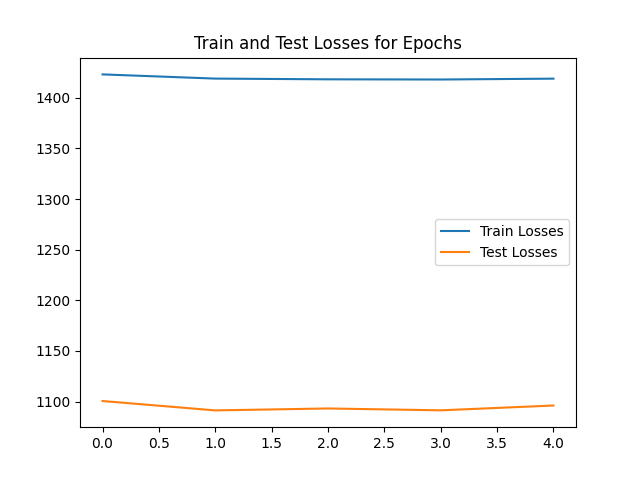
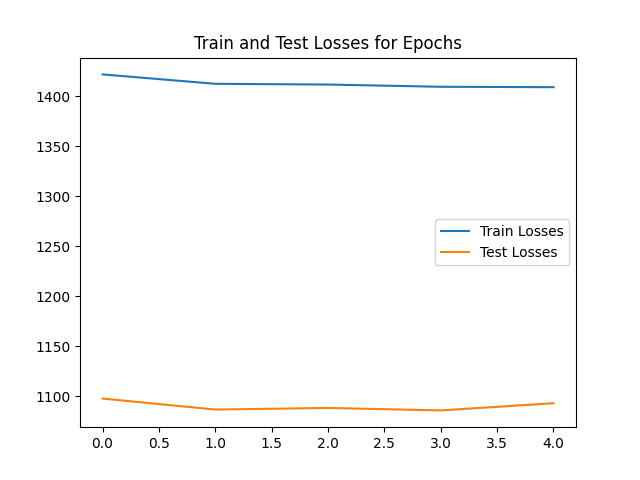
gpu training

diff --git a/model_pipeline/train.py b/model_pipeline/train.py
@@ -22,6 +22,7 @@ class Train:
 
     return final model state 
     '''
+    
 
 
     input_size= self.args.input_size # 55 
@@ -40,9 +41,9 @@ class Train:
     epochs_completed = 0 
 
     # load in model if needed 
-    if self.args.load_model_knn: 
+    if self.args.load_model_fnn: 
       # get model state 
-      model_state= torch.load(self.args.load_model_knn)
+      model_state= torch.load(self.args.load_model_fnn)
 
       # load in state_dict for model and optimizr
       model.load_state_dict(model_state['model_state_dict'])
@@ -52,7 +53,7 @@ class Train:
       epochs_completed= model_state['epochs_completed']
       train_loss_data= model_state['train_loss_data']
       test_loss_data= model_state['test_loss_data']
-      print('KNN Model Loaded in From ', self.args.load_model_knn)
+      print('FNN Model Loaded in From ', self.args.load_model_fnn)
 
 
     for epoch in range(self.args.epochs): 
@@ -73,7 +74,8 @@ class Train:
 
       model.eval()
       loss_epoch_test= 0
-      for xbatch, ybatch in test_loader: 
+      for xbatch, ybatch in test_loader:
+
         # do prediction 
         pred = model(xbatch)
         loss= loss_metric(pred, ybatch)
@@ -81,7 +83,7 @@ class Train:
 
       train_loss_data.append(loss_epoch)
       test_loss_data.append(loss_epoch_test)
-      print(epoch +epochs_completed , loss_epoch, loss_epoch_test )
+      print('Epochs:', epoch +epochs_completed , 'Train Loss:',  loss_epoch, 'Test Loss:', loss_epoch_test )
 
        
 
@@ -104,9 +106,9 @@ class Train:
         'test_loss_data': test_loss_data
       }
 
-    if self.args.save_model_knn: 
-      torch.save(model_state, self.args.save_model_knn)
-      print('Model state saved to', self.args.save_model_knn)
+    if self.args.save_model_fnn: 
+      torch.save(model_state, self.args.save_model_fnn)
+      print('Model state saved to', self.args.save_model_fnn)
       
     
     return model_state

diff --git a/model_pipeline/modelhelper.py b/model_pipeline/modelhelper.py
@@ -99,8 +99,9 @@ class ModelHelper:
     y= torch.tensor(y.values, dtype= torch.float32)
 
     self.args.device= torch.device('cuda' if torch.cuda.is_available() else 'cpu')
-    x.to(self.args.device) # dataset is relatively small so can place it entirely on gpu now 
-    y.to(self.args.device)
+    print('Device Used:', self.args.device)
+    x= x.to(self.args.device) # dataset is relatively small so can place it entirely on gpu now 
+    y= y.to(self.args.device) # reassign to ensure cuda is used, and we aren't just creating a copy on cupu 
 
     # split into train test chunks 
     xtrain, xtest, ytrain, ytest= train_test_split(x, y, test_size=.15, shuffle=True, random_state=1 )
@@ -150,7 +151,7 @@ class ModelHelper:
 
     # use the data to pass to the FNN now 
     # begin training loop 
-    print('Beginning KNN Portion')
+    print('Beginning FNN Portion')
     self.train_instance= Train(self.args)
     model_state= self.train_instance.training_loop(train_loader, test_loader)
 
@@ -162,7 +163,8 @@ class ModelHelper:
 
 
     print('KNN Training Done')
-    raise Exception('here')
+    
+    return # None 
 
 
 

diff --git a/model_pipeline/args_commands.py b/model_pipeline/args_commands.py
@@ -1,19 +1,39 @@
 commands= [
+  # '--epochs=5', 
+  # '--lr=.001',
+
+  
+  # # '--save_model_kmeans',
+  # '--load_model_kmeans' , 
+  # '--save_model_knn', 
+  # # '--load_model_knn', 
+
+  # # '--model_training_loss_plot=images/knn2.png', 
+
+  # # if loading in model, ensure that the hidden sizes and other hyperparams are the saem 
+  # '--hidden_sizes=64', 
+  # '--hidden_sizes=128', 
+  # '--hidden_sizes=64', 
+
+
+
   '--epochs=5', 
-  '--lr=.01',
+  '--lr=.001',
+  '--batch_size=50',
 
   
   # '--save_model_kmeans',
   '--load_model_kmeans' , 
-  '--save_model_knn', 
+  '--save_model_fnn=saved_models/fnn2.pt', 
   # '--load_model_knn', 
 
-  # '--model_training_loss_plot=images/knn2.png', 
+  '--model_training_loss_plot=images/fnn2.png', 
 
   # if loading in model, ensure that the hidden sizes and other hyperparams are the saem 
   '--hidden_sizes=64', 
-  '--hidden_sizes=128', 
-  '--hidden_sizes=64', 
+  '--hidden_sizes=32', 
+
+
 
 
 ]

diff --git a/model_pipeline/driver.py b/model_pipeline/driver.py
@@ -41,9 +41,9 @@ parser.add_argument('--lr', default= .001, type= float, required=False)
   # load model if filename is given 
 parser.add_argument('--save_model_kmeans', const= 'saved_models/kmeans.pkl', nargs= '?', type = str )
 parser.add_argument('--load_model_kmeans', const= 'saved_models/kmeans.pkl', nargs= '?', type = str)
-parser.add_argument('--save_model_knn', const = 'saved_models/knn.pt', nargs='?')
-parser.add_argument('--load_model_knn', const = 'saved_models/knn.pt', nargs='?')
-parser.add_argument('--model_training_loss_plot', default= 'images/knn_training_loss.png', type= str )
+parser.add_argument('--save_model_fnn', const = 'saved_models/fnn.pt', nargs='?')
+parser.add_argument('--load_model_fnn', const = 'saved_models/fnn.pt', nargs='?')
+parser.add_argument('--model_training_loss_plot', default= 'images/fnn_training_loss.png', type= str )
 
 # for predicting 
 parser.add_argument('--predicting', default = False , type = str)

diff --git a/model_pipeline/model.py b/model_pipeline/model.py
@@ -51,8 +51,12 @@ class FNN(nn.Module):
       self.layers= nn.Sequential()
 
       self.layers.append(nn.Linear(input_size, hiddens[0]))
+      self.layers.append(nn.BatchNorm1d(hiddens[0])) # because of 0,1 scaling 
+      self.layers.append(nn.ReLU())
       for i in range(len(hiddens)-1): 
         self.layers.append(nn.Linear(hiddens[i], hiddens[i+1]))
+        self.layers.append(nn.BatchNorm1d(hiddens[i+1]))
+        self.layers.append(nn.ReLU()) # so model doesn't collapse into linear model 
       self.layers.append(nn.Linear(hiddens[-1], output_size))
 
 

diff --git a/model_pipeline/plotting.py b/model_pipeline/plotting.py
@@ -28,6 +28,7 @@ class TrainingPlotting:
     plt.title('Train and Test Losses for Epochs')
     plt.legend()
 
+    print('Plot Saved to: ',self.args.model_training_loss_plot )
     plt.savefig(self.args.model_training_loss_plot)
     plt.show()
 
